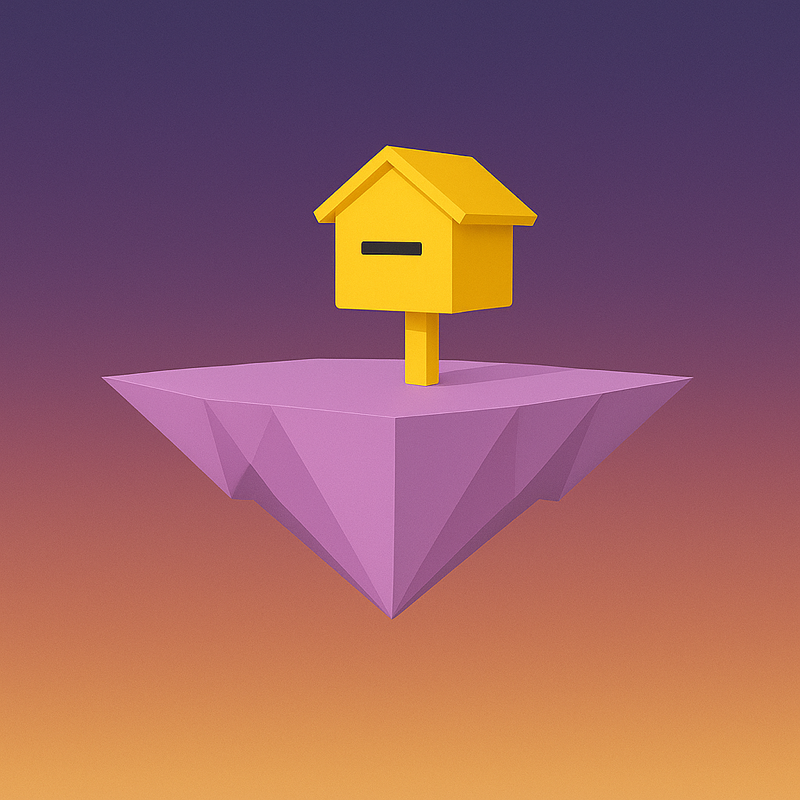
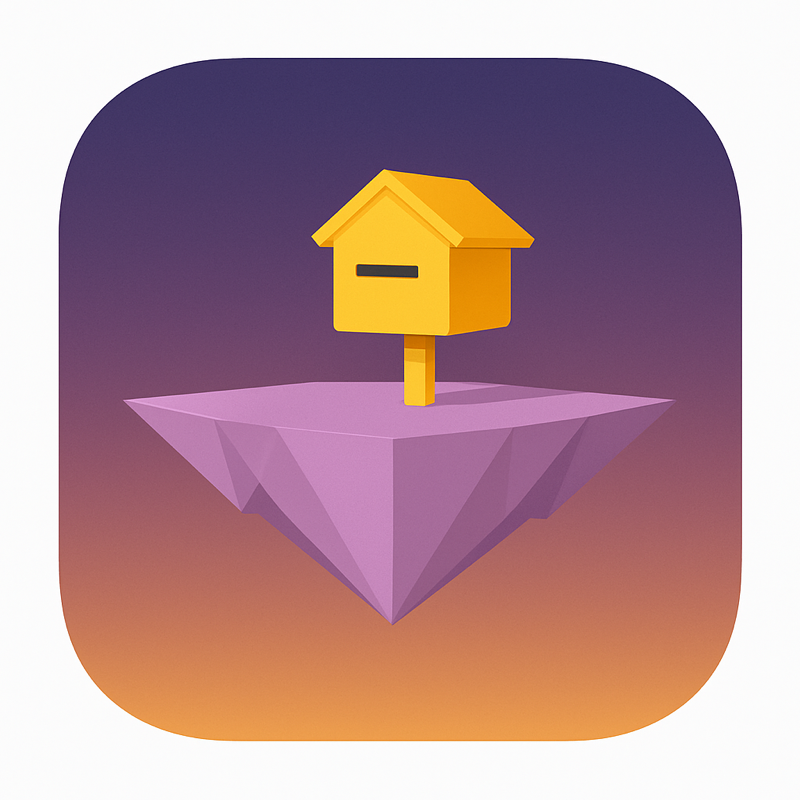
[frontend] pwa 설정 수정, 앱아이콘 수정

diff --git a/frontend/src/app/manifest.ts b/frontend/src/app/manifest.ts
@@ -7,39 +7,14 @@ export default function manifest(): MetadataRoute.Manifest {
     description: '따뜻한 마음을 나눠요',
     start_url: '/',
     display: 'standalone',
-    orientation: 'portrait-primary',
     background_color: '#ffffff',
     theme_color: '#ff6b6b',
-    lang: 'ko',
-    dir: 'ltr',
-    scope: '/',
-    categories: ['lifestyle', 'social'],
-    prefer_related_applications: false,
     icons: [
       {
         src: '/icon.png',
         sizes: '512x512',
         type: 'image/png',
-        purpose: 'maskable'
       },
-      {
-        src: '/icon.png',
-        sizes: '192x192',
-        type: 'image/png',
-        purpose: 'any'
-      },
-      {
-        src: '/icon.png',
-        sizes: '144x144',
-        type: 'image/png',
-        purpose: 'any'
-      },
-      {
-        src: '/icon.png',
-        sizes: '96x96',
-        type: 'image/png',
-        purpose: 'any'
-      }
     ],
   }
 }

diff --git a/frontend/src/app/layout.tsx b/frontend/src/app/layout.tsx
@@ -4,16 +4,6 @@ import './globals.css';
 export const metadata: Metadata = {
   title: '따온',
   description: '따온',
-  viewport: 'width=device-width, initial-scale=1, maximum-scale=1, user-scalable=no, viewport-fit=cover',
-  themeColor: '#ff6b6b',
-  appleWebApp: {
-    capable: true,
-    statusBarStyle: 'default',
-    title: '따온',
-  },
-  formatDetection: {
-    telephone: false,
-  },
 };
 
 export default function RootLayout({
